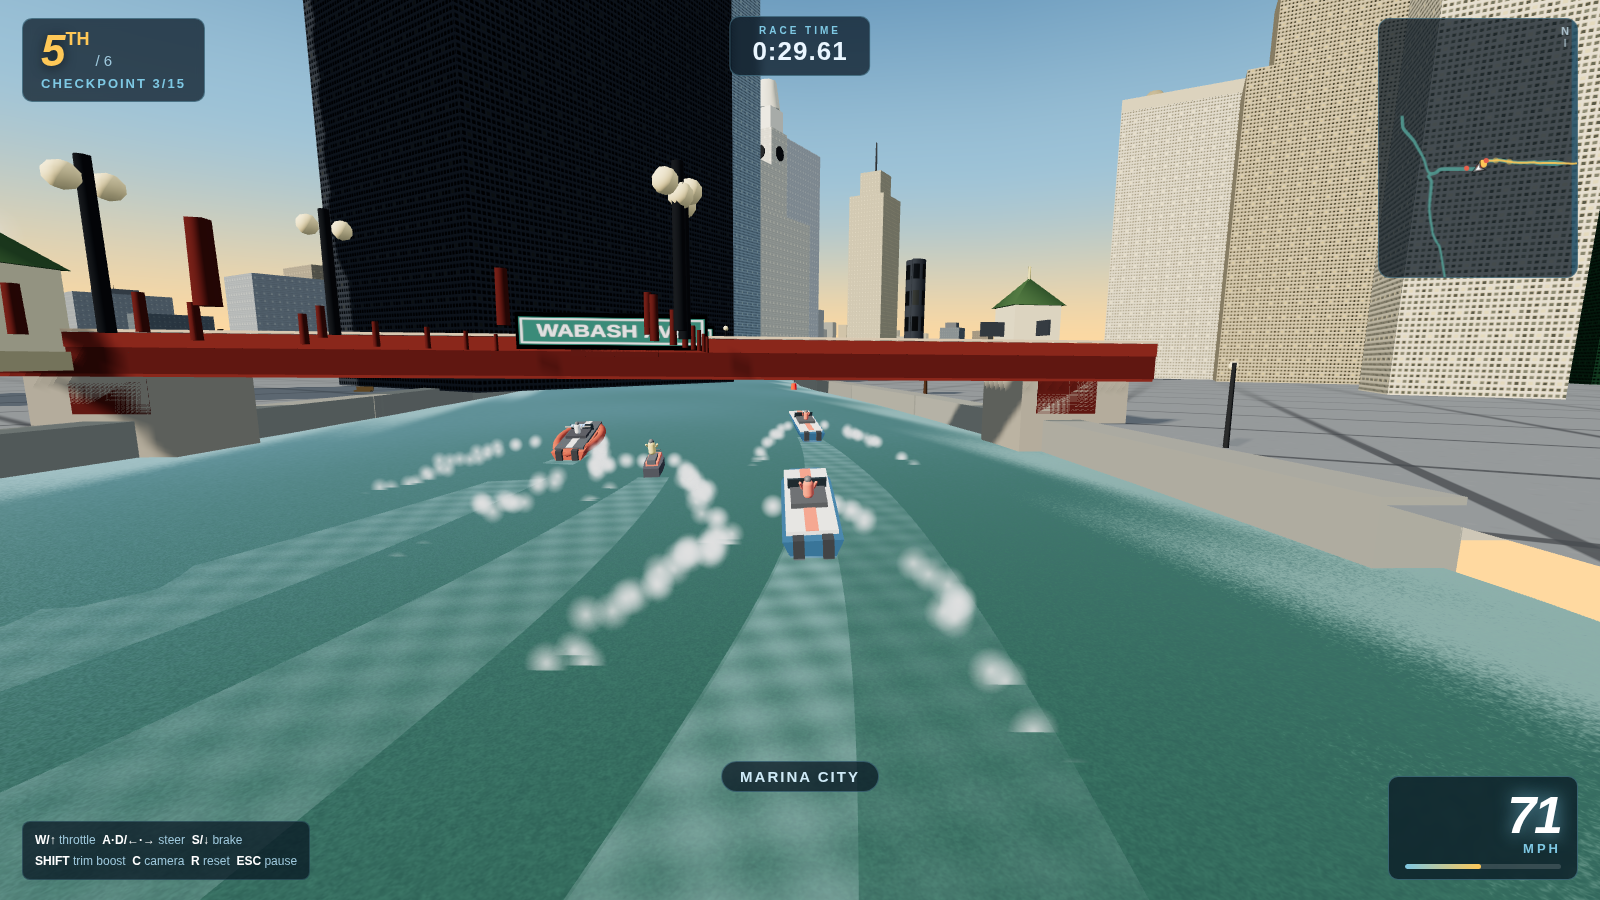
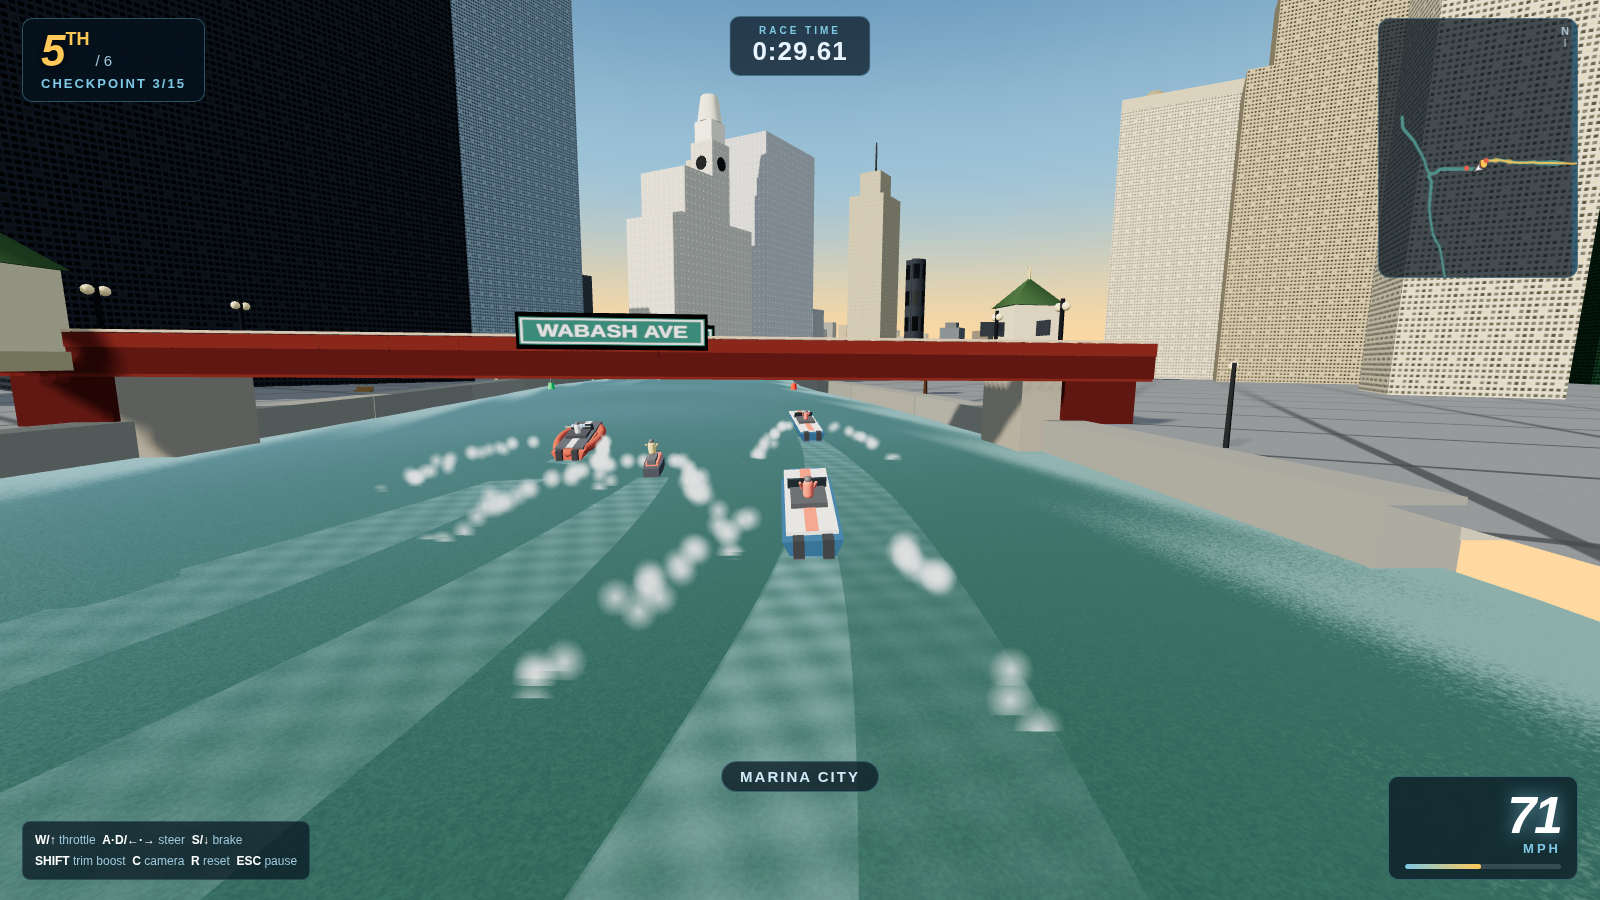
Kill floating bridge lamps/posts, weird blocks, and buildings over the river
Root cause of the floating lampposts/posts: bridge lamps, balusters, and L/truss
verticals had their along-channel and across-channel offsets SWAPPED, placing them
~30m up- and down-river of each deck (floating over the water) instead of across it.
Fixed all of them so lamps sit at the four deck corners and balusters/verticals
march bank-to-bank across the span.

- Relocate bascule counterweights from the waterline into the pit on the land side
  of each pivot (they were the 'weird blocks' at the river's edge).
- Keep-out clamp every landmark: the hand-placed lat/lons didn't match the GIS
  centerline, so towers like Marina City / 333 W Wacker / River Point overhung the
  water. Each is now nudged landward until its whole footprint (plus curve bulge)
  clears every channel.
- Skip riverwalk dressing within 17m of a bridge so nothing collides with the deck.
- Add RRTest.setCamera debug free-cam for close-range visual QA.

Verified: every Main Stem bridge and river-hugging landmark inspected at close
range from over the water — no floating geometry, nothing on the river but bridges.

Claude-Session: https://claude.ai/code/session_01EhbuAtRJA6oewV2GCpRd8x

diff --git a/play/RiverRacer.html b/play/RiverRacer.html
@@ -2334,6 +2334,17 @@ window.CHICAGO = {
     const C = window.CHICAGO;
     const rng = U().mulberry(C.generic.seed);
 
+    // snapped bridge crossing points, so riverwalk dressing keeps clear of the decks
+    const bridgePts = C.bridges.map((b) => {
+      const p = RR.River.paths[b.branch];
+      const q = U().pathNearest(p, b.x, b.z);
+      return { x: q.x, z: q.z };
+    });
+    function nearBridge(x, z, r) {
+      for (const bp of bridgePts) if (U().dist2(x, z, bp.x, bp.z) < r * r) return true;
+      return false;
+    }
+
     // ---------- ground: bank aprons hugging every channel + a coarse cell grid with
     // water cells skipped (the river must stay open water — no slab over the channels) ----------
     const groundTex = U().canvasTexture(256, 256, (ctx, w, h) => {
@@ -2615,6 +2626,7 @@ window.CHICAGO = {
           const px = p.x[i] - tz * off * s, pz = p.z[i] + tx * off * s;
           if (px > C.lake.openWaterX - 20) continue;
           if (landClearance(px, pz) < 1.2) continue;                     // never over the water
+          if (nearBridge(px, pz, 17)) continue;                          // clear of the bridge decks
           const kind = (Math.floor(i / 7) + (s > 0 ? 0 : 1)) % 4;
           if (kind === 0) lampAt(dressGeoms, px, pz);
           else if (kind === 1) treeAt(dressGeoms, px, pz, 1);
@@ -2910,11 +2922,37 @@ window.CHICAGO = {
     },
   };
 
+  // Nudge a landmark landward until its whole footprint clears every channel.
+  // The hand-placed lat/lons don't perfectly match the GIS centerline, so without this
+  // a few towers (Marina City, 333 W Wacker, River Point...) overhang the water.
+  const BULGE = { wacker333: 0.42, riverpoint: 0.4, aqua: 0.12 };  // curved builders reach past w/d
+  function clampToLand(l) {
+    for (let pass = 0; pass < 4; pass++) {
+      let worst = null;
+      for (const key in RR.River.paths) {
+        if (key.startsWith('lake')) continue;
+        const p = RR.River.paths[key];
+        const q = U().pathNearest(p, l.x, l.z);
+        let nx = l.x - q.x, nz = l.z - q.z;
+        const nl = Math.hypot(nx, nz) || 1; nx /= nl; nz /= nl;
+        // half-extent of the (axis-aligned) footprint toward this channel, plus curve bulge
+        let extent = 0.5 * (Math.abs(nx) * l.w + Math.abs(nz) * l.d);
+        if (BULGE[l.kind]) extent += BULGE[l.kind] * Math.max(l.w, l.d);
+        const deficit = (q.w + extent + 7) - q.dist;   // >0 means it overhangs the water
+        if (deficit > 0 && (!worst || deficit > worst.deficit)) worst = { nx, nz, deficit };
+      }
+      if (!worst) break;
+      l.x += worst.nx * worst.deficit;
+      l.z += worst.nz * worst.deficit;
+    }
+  }
+
   L.init = function () {
     rng = U().mulberry(808);
     const glass = [], flat = [];
     const tags = [];
     for (const l of window.CHICAGO.landmarks) {
+      clampToLand(l);
       const fn = builders[l.kind] || builders.boxglass;
       fn(l, glass, flat);
       tags.push({ name: l.name, x: l.x, z: l.z, r2: Math.pow(Math.max(l.w, l.d) / 2 + 95, 2) });
@@ -3087,33 +3125,33 @@ window.CHICAGO = {
     }
     // side girders
     for (const s of [-1, 1]) cross(1.1, 2.6, span, s * (deckW / 2 - 0.4), cl + 1.5, RED_DK);
-    // counterweights hanging under the leading edges at each pier
+    // counterweight housings, tucked in the pit on the LAND side of each pivot
     if (bridge.kind !== 'deck') {
-      for (const s of [-1, 1]) at(5, 3, 8, 0, s * (half + 1.5), cl - 1.2, RED_DK, true);
+      for (const s of [-1, 1]) at(6, 4, 9, 0, s * (half + 4), cl - 2, RED_DK, true);
     }
 
-    // ---- balustrade railing: low wall + top rail + sparse posts ----
+    // ---- balustrade railing: low wall + top rail + balusters (spaced ACROSS the span) ----
     for (const s of [-1, 1]) {
-      const acr = deckW / 2 + 0.1;
-      cross(0.3, 0.95, span, s * acr, cl + 2.4, RED);         // low wall
-      cross(0.45, 0.18, span, s * acr, cl + 3.0, 0xcbb59a);   // pale top rail
-      for (let k = -half - 4; k <= half + 4; k += 4.5) {      // balusters
-        cylAt(0.13, 1.05, k, acr * s, cl + 2.4, RED_DK, 4);
+      const acr = deckW / 2 + 0.1;                            // railing sits at the deck's along-edge
+      cross(0.3, 0.95, span, s * acr, cl + 2.4, RED);        // low wall, runs across the channel
+      cross(0.45, 0.18, span, s * acr, cl + 3.0, 0xcbb59a);  // pale top rail
+      for (let a = -half - 4; a <= half + 4; a += 4.5) {     // balusters march bank-to-bank
+        cylAt(0.13, 1.05, s * acr, a, cl + 2.4, RED_DK, 4);
       }
     }
 
     // bascule center seam hump
     if (bridge.kind !== 'deck') cross(deckW + 0.5, 1.2, 6, 0, cl + 2.2, RED_DK);
 
-    // corner lamps
-    for (const so of [-1, 1]) for (const ao of [-1, 1]) bridgeLamp(ao * (half + 1.5), so * (deckW / 2 + 0.6));
+    // corner lamps — at the four deck corners (along-edge × bank)
+    for (const so of [-1, 1]) for (const ao of [-1, 1]) bridgeLamp(ao * (deckW / 2 - 0.4), so * (half - 0.5));
 
     if (bridge.kind === 'l') {
       // Wells/Lake double-deck: L rapid-transit truss overhead
       cross(11, 1.4, span, 0, cl + 7.6, 0x4a4e52);
       for (const s of [-1, 1]) {
         cross(0.9, 6.0, span, s * 5.4, cl + 4.6, RED_DK);
-        for (let k = -half; k <= half; k += 6) cylAt(0.3, 6.0, k, s * 5.4, cl + 4.6, RED_DK, 4);
+        for (let a = -half; a <= half; a += 6) cylAt(0.3, 6.0, s * 5.4, a, cl + 4.6, RED_DK, 4);
         cross(0.5, 0.5, span, s * 5.4, cl + 7.5, 0x3a3f45);
       }
       addSigns(cl + 3.4);
@@ -3121,7 +3159,7 @@ window.CHICAGO = {
       // Lake Shore Drive: steel through-truss
       for (const s of [-1, 1]) cross(1.2, 7, span, s * 9.5, cl + 5.4, 0x6a7076);
       cross(20, 1.2, 8, 0, cl + 9.2, 0x6a7076);
-      for (let k = -half; k <= half; k += 8) for (const s of [-1, 1]) cylAt(0.35, 7, k, s * 9.5, cl + 5.4, 0x5a6066, 4);
+      for (let a = -half; a <= half; a += 8) for (const s of [-1, 1]) cylAt(0.35, 7, s * 9.5, a, cl + 5.4, 0x5a6066, 4);
       addSigns(cl + 3.6);
     } else {
       // bascule tender houses
@@ -6059,7 +6097,7 @@ window.CHICAGO = {
 
     RR.Race.animateGates(t);
     RR.FX.update(boats, dt, t);
-    RR.Camera.follow(player, dt);
+    if (!(window.RRTest && window.RRTest._freecam)) RR.Camera.follow(player, dt);
     RR.Engine.trackShadow(player.pos.x, player.pos.z);
 
     RR.HUD.update(dt, player, raceState);
@@ -6106,6 +6144,15 @@ window.CHICAGO = {
       }
       RR.Engine.warp(sec);
     },
+    // debug inspection: freeze a free camera anywhere in the world
+    setCamera: (px, py, pz, lx, ly, lz) => {
+      const cam = RR.Engine.camera;
+      cam.position.set(px, py, pz);
+      cam.up.set(0, 1, 0);
+      cam.lookAt(lx, ly, lz);
+      window.RRTest._freecam = true;
+    },
+    clearCamera: () => { window.RRTest._freecam = false; },
     getState: () => ({
       scene: mode === 'menu' ? 'menu' : mode === 'results' ? 'results' : 'race',
       speed: player ? Math.hypot(player.vel.x, player.vel.z) : 0,

diff --git a/js/world/bridges.js b/js/world/bridges.js
@@ -149,33 +149,33 @@
     }
     // side girders
     for (const s of [-1, 1]) cross(1.1, 2.6, span, s * (deckW / 2 - 0.4), cl + 1.5, RED_DK);
-    // counterweights hanging under the leading edges at each pier
+    // counterweight housings, tucked in the pit on the LAND side of each pivot
     if (bridge.kind !== 'deck') {
-      for (const s of [-1, 1]) at(5, 3, 8, 0, s * (half + 1.5), cl - 1.2, RED_DK, true);
+      for (const s of [-1, 1]) at(6, 4, 9, 0, s * (half + 4), cl - 2, RED_DK, true);
     }
 
-    // ---- balustrade railing: low wall + top rail + sparse posts ----
+    // ---- balustrade railing: low wall + top rail + balusters (spaced ACROSS the span) ----
     for (const s of [-1, 1]) {
-      const acr = deckW / 2 + 0.1;
-      cross(0.3, 0.95, span, s * acr, cl + 2.4, RED);         // low wall
-      cross(0.45, 0.18, span, s * acr, cl + 3.0, 0xcbb59a);   // pale top rail
-      for (let k = -half - 4; k <= half + 4; k += 4.5) {      // balusters
-        cylAt(0.13, 1.05, k, acr * s, cl + 2.4, RED_DK, 4);
+      const acr = deckW / 2 + 0.1;                            // railing sits at the deck's along-edge
+      cross(0.3, 0.95, span, s * acr, cl + 2.4, RED);        // low wall, runs across the channel
+      cross(0.45, 0.18, span, s * acr, cl + 3.0, 0xcbb59a);  // pale top rail
+      for (let a = -half - 4; a <= half + 4; a += 4.5) {     // balusters march bank-to-bank
+        cylAt(0.13, 1.05, s * acr, a, cl + 2.4, RED_DK, 4);
       }
     }
 
     // bascule center seam hump
     if (bridge.kind !== 'deck') cross(deckW + 0.5, 1.2, 6, 0, cl + 2.2, RED_DK);
 
-    // corner lamps
-    for (const so of [-1, 1]) for (const ao of [-1, 1]) bridgeLamp(ao * (half + 1.5), so * (deckW / 2 + 0.6));
+    // corner lamps — at the four deck corners (along-edge × bank)
+    for (const so of [-1, 1]) for (const ao of [-1, 1]) bridgeLamp(ao * (deckW / 2 - 0.4), so * (half - 0.5));
 
     if (bridge.kind === 'l') {
       // Wells/Lake double-deck: L rapid-transit truss overhead
       cross(11, 1.4, span, 0, cl + 7.6, 0x4a4e52);
       for (const s of [-1, 1]) {
         cross(0.9, 6.0, span, s * 5.4, cl + 4.6, RED_DK);
-        for (let k = -half; k <= half; k += 6) cylAt(0.3, 6.0, k, s * 5.4, cl + 4.6, RED_DK, 4);
+        for (let a = -half; a <= half; a += 6) cylAt(0.3, 6.0, s * 5.4, a, cl + 4.6, RED_DK, 4);
         cross(0.5, 0.5, span, s * 5.4, cl + 7.5, 0x3a3f45);
       }
       addSigns(cl + 3.4);
@@ -183,7 +183,7 @@
       // Lake Shore Drive: steel through-truss
       for (const s of [-1, 1]) cross(1.2, 7, span, s * 9.5, cl + 5.4, 0x6a7076);
       cross(20, 1.2, 8, 0, cl + 9.2, 0x6a7076);
-      for (let k = -half; k <= half; k += 8) for (const s of [-1, 1]) cylAt(0.35, 7, k, s * 9.5, cl + 5.4, 0x5a6066, 4);
+      for (let a = -half; a <= half; a += 8) for (const s of [-1, 1]) cylAt(0.35, 7, s * 9.5, a, cl + 5.4, 0x5a6066, 4);
       addSigns(cl + 3.6);
     } else {
       // bascule tender houses

diff --git a/js/world/landmarks.js b/js/world/landmarks.js
@@ -260,11 +260,37 @@
     },
   };
 
+  // Nudge a landmark landward until its whole footprint clears every channel.
+  // The hand-placed lat/lons don't perfectly match the GIS centerline, so without this
+  // a few towers (Marina City, 333 W Wacker, River Point...) overhang the water.
+  const BULGE = { wacker333: 0.42, riverpoint: 0.4, aqua: 0.12 };  // curved builders reach past w/d
+  function clampToLand(l) {
+    for (let pass = 0; pass < 4; pass++) {
+      let worst = null;
+      for (const key in RR.River.paths) {
+        if (key.startsWith('lake')) continue;
+        const p = RR.River.paths[key];
+        const q = U().pathNearest(p, l.x, l.z);
+        let nx = l.x - q.x, nz = l.z - q.z;
+        const nl = Math.hypot(nx, nz) || 1; nx /= nl; nz /= nl;
+        // half-extent of the (axis-aligned) footprint toward this channel, plus curve bulge
+        let extent = 0.5 * (Math.abs(nx) * l.w + Math.abs(nz) * l.d);
+        if (BULGE[l.kind]) extent += BULGE[l.kind] * Math.max(l.w, l.d);
+        const deficit = (q.w + extent + 7) - q.dist;   // >0 means it overhangs the water
+        if (deficit > 0 && (!worst || deficit > worst.deficit)) worst = { nx, nz, deficit };
+      }
+      if (!worst) break;
+      l.x += worst.nx * worst.deficit;
+      l.z += worst.nz * worst.deficit;
+    }
+  }
+
   L.init = function () {
     rng = U().mulberry(808);
     const glass = [], flat = [];
     const tags = [];
     for (const l of window.CHICAGO.landmarks) {
+      clampToLand(l);
       const fn = builders[l.kind] || builders.boxglass;
       fn(l, glass, flat);
       tags.push({ name: l.name, x: l.x, z: l.z, r2: Math.pow(Math.max(l.w, l.d) / 2 + 95, 2) });

diff --git a/js/world/city.js b/js/world/city.js
@@ -137,6 +137,17 @@
     const C = window.CHICAGO;
     const rng = U().mulberry(C.generic.seed);
 
+    // snapped bridge crossing points, so riverwalk dressing keeps clear of the decks
+    const bridgePts = C.bridges.map((b) => {
+      const p = RR.River.paths[b.branch];
+      const q = U().pathNearest(p, b.x, b.z);
+      return { x: q.x, z: q.z };
+    });
+    function nearBridge(x, z, r) {
+      for (const bp of bridgePts) if (U().dist2(x, z, bp.x, bp.z) < r * r) return true;
+      return false;
+    }
+
     // ---------- ground: bank aprons hugging every channel + a coarse cell grid with
     // water cells skipped (the river must stay open water — no slab over the channels) ----------
     const groundTex = U().canvasTexture(256, 256, (ctx, w, h) => {
@@ -418,6 +429,7 @@
           const px = p.x[i] - tz * off * s, pz = p.z[i] + tx * off * s;
           if (px > C.lake.openWaterX - 20) continue;
           if (landClearance(px, pz) < 1.2) continue;                     // never over the water
+          if (nearBridge(px, pz, 17)) continue;                          // clear of the bridge decks
           const kind = (Math.floor(i / 7) + (s > 0 ? 0 : 1)) % 4;
           if (kind === 0) lampAt(dressGeoms, px, pz);
           else if (kind === 1) treeAt(dressGeoms, px, pz, 1);

diff --git a/js/main.js b/js/main.js
@@ -175,7 +175,7 @@
 
     RR.Race.animateGates(t);
     RR.FX.update(boats, dt, t);
-    RR.Camera.follow(player, dt);
+    if (!(window.RRTest && window.RRTest._freecam)) RR.Camera.follow(player, dt);
     RR.Engine.trackShadow(player.pos.x, player.pos.z);
 
     RR.HUD.update(dt, player, raceState);
@@ -222,6 +222,15 @@
       }
       RR.Engine.warp(sec);
     },
+    // debug inspection: freeze a free camera anywhere in the world
+    setCamera: (px, py, pz, lx, ly, lz) => {
+      const cam = RR.Engine.camera;
+      cam.position.set(px, py, pz);
+      cam.up.set(0, 1, 0);
+      cam.lookAt(lx, ly, lz);
+      window.RRTest._freecam = true;
+    },
+    clearCamera: () => { window.RRTest._freecam = false; },
     getState: () => ({
       scene: mode === 'menu' ? 'menu' : mode === 'results' ? 'results' : 'race',
       speed: player ? Math.hypot(player.vel.x, player.vel.z) : 0,
